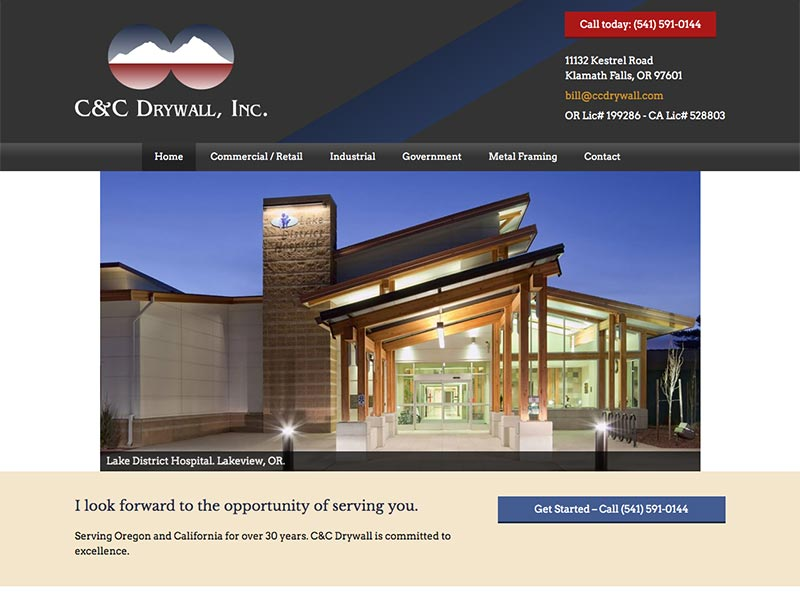
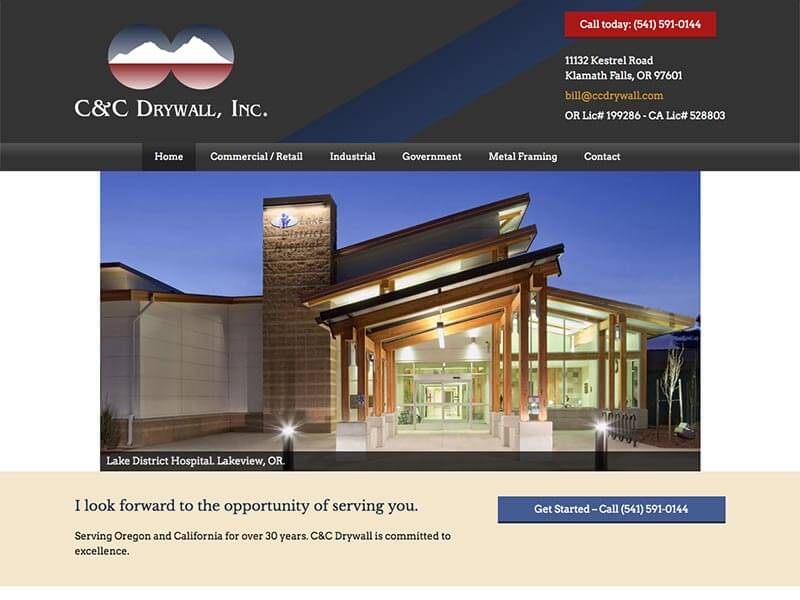
Handle Contact on client side. Upload compressed images.

diff --git a/src/components/sections/Contact.js b/src/components/sections/Contact.js
@@ -1,15 +1,67 @@
 import React, { Component } from 'react';
-// import axios from 'axios';
-import { Button, Form, FormGroup, Label, Input } from 'reactstrap';
+import axios from 'axios';
+import { Alert, Button, Form, FormGroup, Label, Input } from 'reactstrap';
+
+const initialState = {
+  alert: null,
+  name: '',
+  email: '',
+  message: ''
+};
 
 class Contact extends Component {
+  state = initialState;
+
+  handleChange = event => {
+    const {
+      currentTarget: { name, value }
+    } = event;
+
+    this.setState(currentState => ({
+      ...currentState,
+      [name]: value
+    }));
+  };
+
+  handleAlert = alert => this.setState({ alert });
+
+  renderAlert = () => {
+    const { alert } = this.state;
+
+    if (!alert) return null;
+
+    return (
+      <Alert color={alert.status} toggle={this.toggleAlert} isOpen>
+        {alert.message}
+      </Alert>
+    );
+  };
+
+  toggleAlert = () => this.setState({ alert: null });
+
+  handleSubmit = event => {
+    event.preventDefault();
+    const { email, message, name } = this.state;
+
+    axios
+      .post('/send', { email, message, name })
+      .then(() => this.setState(initialState))
+      .then(() =>
+        this.handleAlert({ status: 'success', message: 'Message sent fam' })
+      )
+      .catch(() => this.handleAlert({ status: 'danger', message: 'dang' }));
+  };
+
   render() {
+    const { email, message, name } = this.state;
+
     return (
       <section id='contact' className='bg-accent fullwidth'>
         <div className='container'>
           <h1>Reach out</h1>
           {/* {msg} */}
-          <Form id='contact-form' action='send' method='POST'>
+          {this.renderAlert()}
+          <Form id='contact-form' onSubmit={this.handleSubmit}>
             <div className='form-row'>
               <FormGroup className=' col-md-6'>
                 <Label htmlFor='name'>Name</Label>
@@ -18,6 +70,8 @@ class Contact extends Component {
                   className='form-control'
                   name='name'
                   id='name'
+                  onChange={this.handleChange}
+                  value={name}
                 />
               </FormGroup>
               <FormGroup className=' col-md-6'>
@@ -27,6 +81,8 @@ class Contact extends Component {
                   className='form-control'
                   name='email'
                   id='email'
+                  onChange={this.handleChange}
+                  value={email}
                 />
               </FormGroup>
             </div>
@@ -37,6 +93,8 @@ class Contact extends Component {
                 name='message'
                 className='form-control'
                 id='message'
+                onChange={this.handleChange}
+                value={message}
               />
             </FormGroup>
             <Button color='primary' className='btn btn-lg' type='submit'>

diff --git a/src/App.js b/src/App.js
@@ -1,7 +1,6 @@
 import React from 'react';
 import { Route, BrowserRouter as Router, Switch } from 'react-router-dom';
 import Home from './pages/Home';
-import ThankYou from './pages/ThankYou';
 import ErrorPage from './pages/ErrorPage';
 import Header from './components/main/Header';
 import Footer from './components/main/Footer';
@@ -26,7 +25,6 @@ function App() {
           render={({ location }) => (
             <Switch location={location}>
               <Route exact path='/' component={Home} />
-              <Route path='/thank-you' component={ThankYou} />
               <Route component={ErrorPage} />
             </Switch>
           )}

diff --git a/src/server/index.js b/src/server/index.js
@@ -14,17 +14,6 @@ require('./routes/skills')(app);
 require('./routes/calltoactions')(app);
 require('./routes/send')(app);
 
-// if (process.env.NODE_ENV === 'production') {
-//   //Express will serve up production assets
-//   app.use(express.static('../../build'));
-
-//   //Express will serve up the index.html file
-//   //if it doesn't recognize the route
-//   const path = require('path');
-//   app.get('*', (req, res) => {
-//     res.sendFile(path.resolve(__dirname, '../..', 'build', 'index.html'));
-//   });
-// }
 app.use(express.static(path.join(__dirname, '..', '..', 'build')));
 
 // Error handling function

diff --git a/src/server/routes/send.js b/src/server/routes/send.js
@@ -49,14 +49,11 @@ module.exports = app => {
     // send mail with defined transport object
     transporter.sendMail(mailOptions, (error, info) => {
       if (error) {
-        return console.log(error);
+        return res.sendStatus(401);
       }
       console.log('Message sent: %s', info.messageId);
       console.log('Preview URL: %s', nodemailer.getTestMessageUrl(info));
-      // res.sendStatus(200);
-      res.redirect('/thank-you');
-
-      // res.render('contact', { msg: 'Email has been sent' });
+      res.sendStatus(200);
     });
   });
 };

diff --git a/src/components/main/components/FooterCallToAction.js b/src/components/main/components/FooterCallToAction.js
@@ -1,5 +1,4 @@
 import React, { Fragment } from 'react';
-import { Link } from 'react-router-dom';
 
 function FooterCallToAction(props) {
   return (
